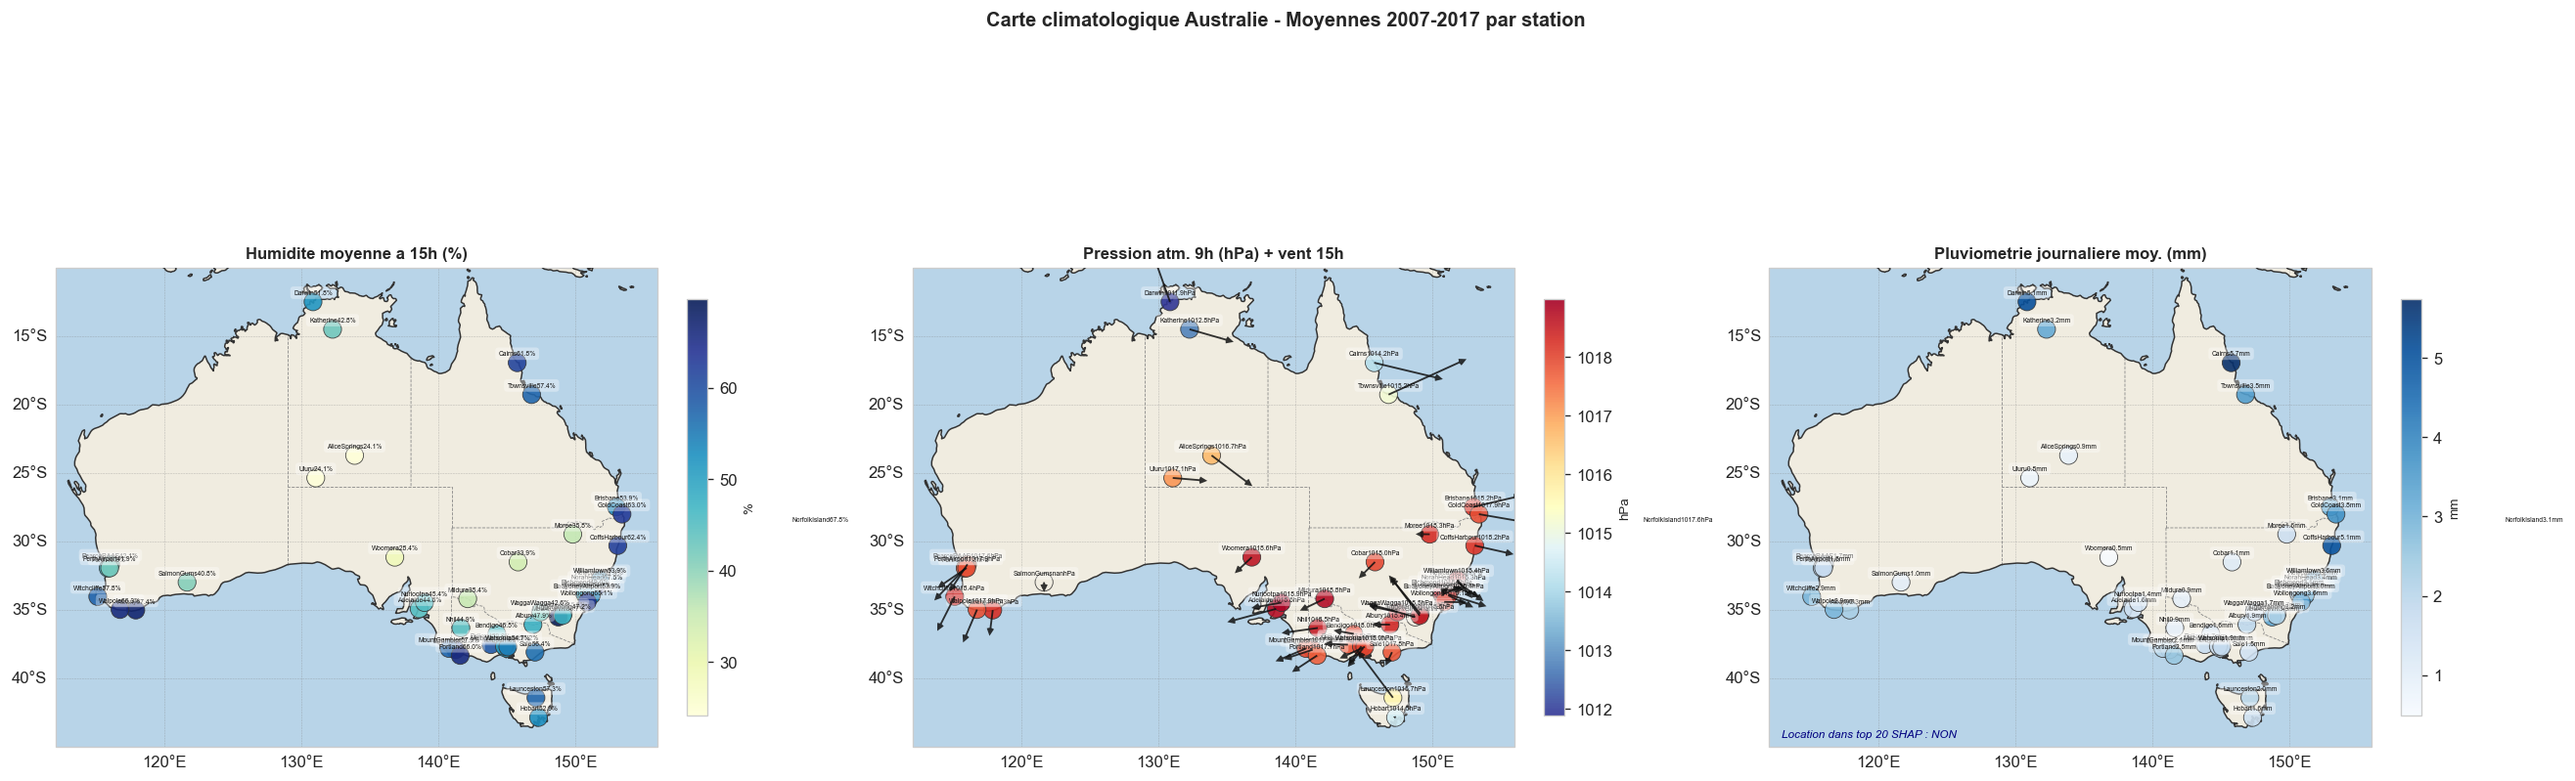
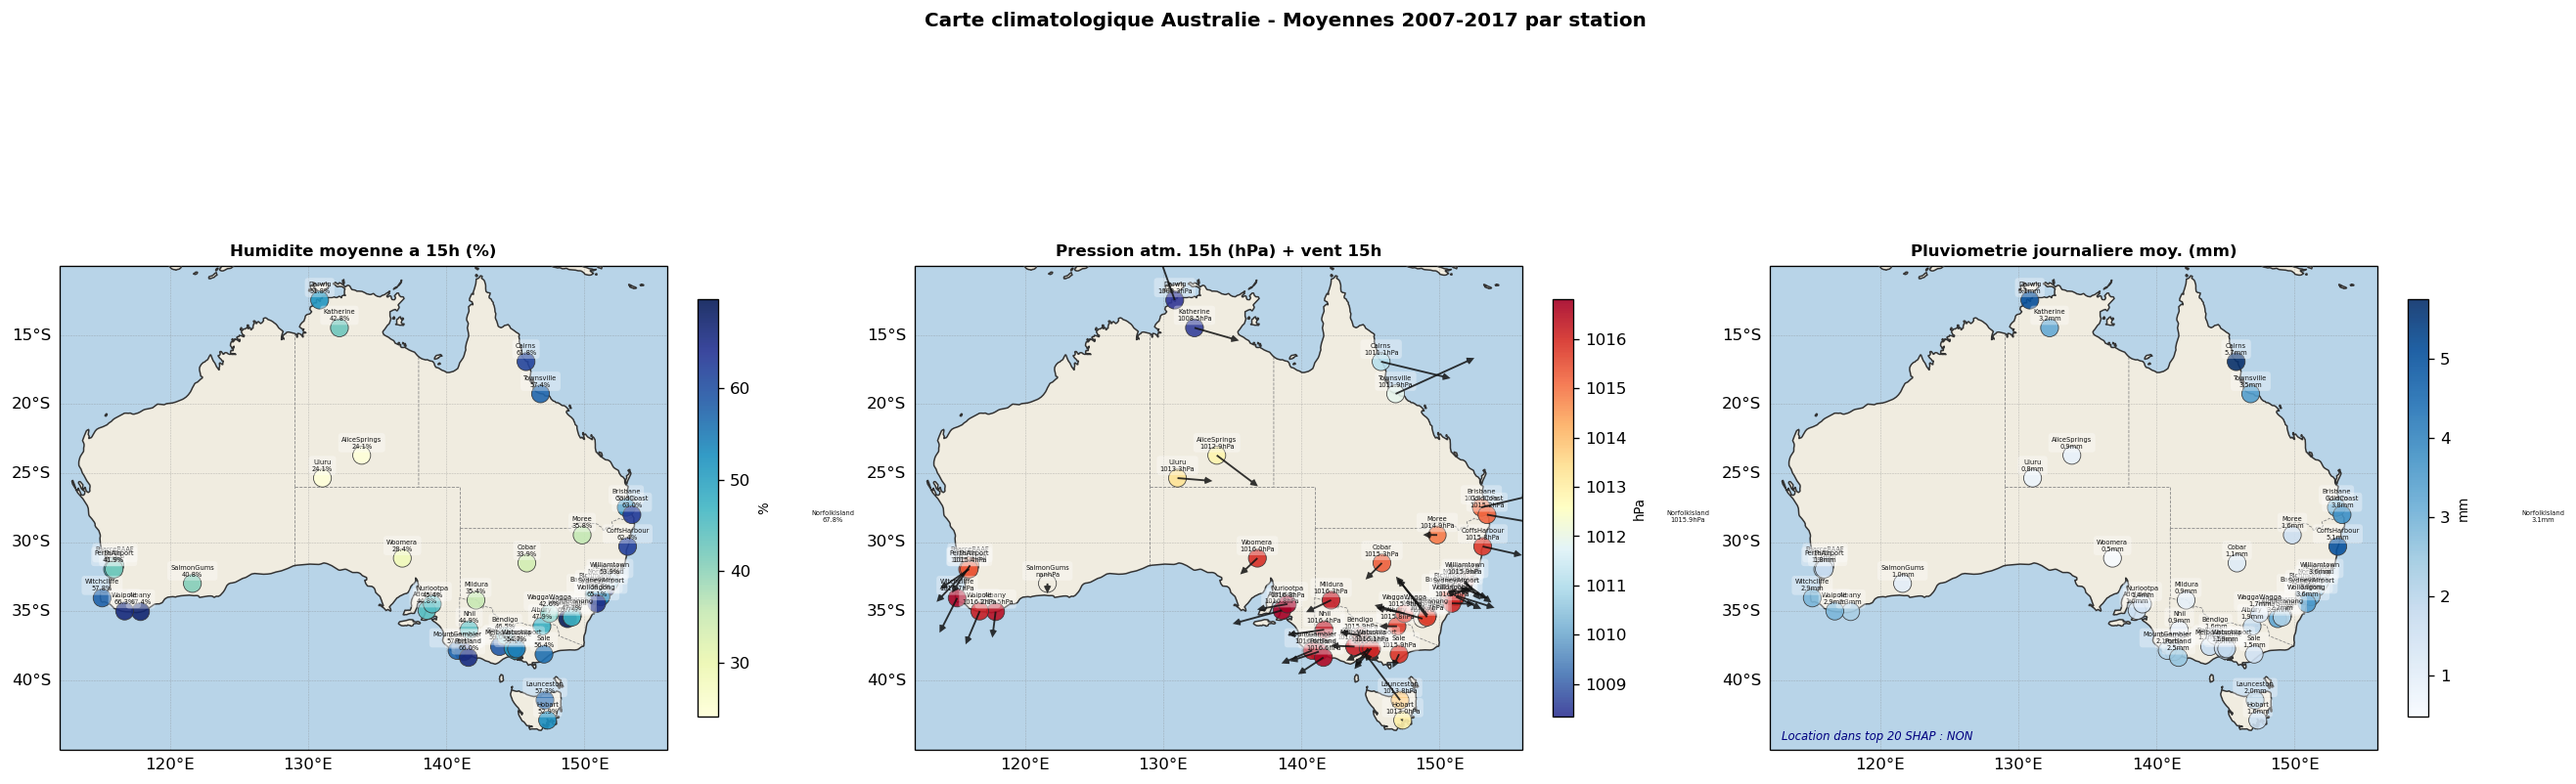
fix: last minute ! fix mistake about cartopy and old runs

diff --git a/streamlit_app/app.py b/streamlit_app/app.py
@@ -858,30 +858,39 @@ Pour chaque saison (Summer, Autumn, Winter, Spring), on calcule
 la **moyenne |SHAP|** des top 10 features. Plus la case est rouge,
 plus la feature compte pour cette saison-là.
 
-- **Hiver austral (Winter)** : Humidity3pm et Pressure3pm dominent.
-  Les fronts dépressionnaires venus de l'océan Antarctique gouvernent
-  la météo du sud de l'Australie.
+- **Humidity3pm** reste la feature dominante toute l'année (~0.57,0.65),
+  avec un **pic en été** (0.65) : l'humidité de l'après-midi est le
+  signal de pluie le plus fort quelle que soit la saison.
 
-- **Été (Summer)** : Wind_x_Humidity prend de l'importance, la mousson
-  tropicale du nord (Darwin, Cairns) est dominée par les vents humides
-  et les orages convectifs.
+- **Été (Summer)** : c'est **Sunshine** qui se démarque le plus
+  (0.33 contre 0.15,0.24 ailleurs), aux côtés du pic d'Humidity3pm.
+  Un ciel dégagé en été est très discriminant pour « pas de pluie ».
 
-- **Printemps / Automne** : profils intermédiaires, plus équilibrés.
+- **Hiver austral (Winter)** : **Pressure3pm** atteint son maximum
+  (0.285), cohérent avec les fronts dépressionnaires qui pilotent la
+  pluie hivernale du sud de l'Australie.
+
+- **Wind_x_Humidity** est au contraire **stable sur les 4 saisons**
+  (~0.44,0.49) : un signal de fond, peu saisonnier.
 
 **Lecture du boxplot (droite)**
 
-Distribution de la valeur SHAP de la **feature #1** (typiquement Humidity3pm)
-par saison. Une boîte étalée signifie que cette feature **discrimine
-fortement** les jours de pluie/pas pluie pour cette saison.
+Distribution de la valeur SHAP (signée) de **Humidity3pm** par saison.
+La position de la boîte par rapport à 0 indique le sens de la contribution
+(négatif = pousse vers « pas de pluie »).
 
-- En hiver, la boîte est large et la médiane proche de 0, la feature
-  bascule franchement d'un côté ou de l'autre selon les jours.
-- En été, distribution plus resserrée, la pluie est plus systématique
-  (saison humide), Humidity3pm explique une part stable.
+- **Hiver** : c'est la seule boîte qui **chevauche franchement 0**
+  (médiane ~ -0.2, remontant jusqu'à +0.37). L'humidité de l'après-midi
+  bascule d'un côté ou de l'autre selon les jours, son effet est ambigu.
+- **Été** : médiane la **plus négative** (~ -0.47) ; en été une humidité
+  donnée pousse plus nettement vers « pas de pluie », l'effet est moins
+  ambigu qu'en hiver.
 
-**Conclusion** : le modèle a appris des **règles différentes selon
-la saison**, ce qui valide l'utilité des features temporelles cycliques
-(Month_sin/cos, DayOfYear_sin/cos).
+**Conclusion** : l'importance et même le **sens** des features varient
+selon la saison (Pressure3pm en hiver, Sunshine en été, bascule de
+Humidity3pm). Le modèle exploite donc bien l'information saisonnière
+portée par les features temporelles cycliques (Month_sin/cos,
+DayOfYear_sin/cos).
 """)
 
 
@@ -906,7 +915,7 @@ def slide_carte():
 **Conclusion SHAP :**
 Location n'est pas dans le top 20 des features SHAP.
 Le modèle capture implicitement la géographie via
-Humidity3pm, Pressure9am et WindGustSpeed, qui encodent
+Humidity3pm, Pressure3pm et WindGustSpeed, qui encodent
 déjà le profil climatique de chaque station.
 """)
 

diff --git a/src/ml_pipeline.py b/src/ml_pipeline.py
@@ -599,7 +599,7 @@ if _shap_ok:
 
     _climate = _df_raw_map.groupby('Location').agg(
         humidity = ('Humidity3pm', 'mean'),
-        pressure = ('Pressure9am', 'mean'),
+        pressure = ('Pressure3pm', 'mean'),
         rainfall = ('Rainfall',    'mean'),
         wind_u   = ('_wind_u',     'mean'),
         wind_v   = ('_wind_v',     'mean'),
@@ -617,7 +617,7 @@ if _shap_ok:
 
     _panels = [
         ('humidity', 'YlGnBu',   'Humidite moyenne a 15h (%)',         '%',   False),
-        ('pressure', 'RdYlBu_r', 'Pression atm. 9h (hPa) + vent 15h', 'hPa', True),
+        ('pressure', 'RdYlBu_r', 'Pression atm. 15h (hPa) + vent 15h', 'hPa', True),
         ('rainfall', 'Blues',    'Pluviometrie journaliere moy. (mm)',  'mm',  False),
     ]
 
